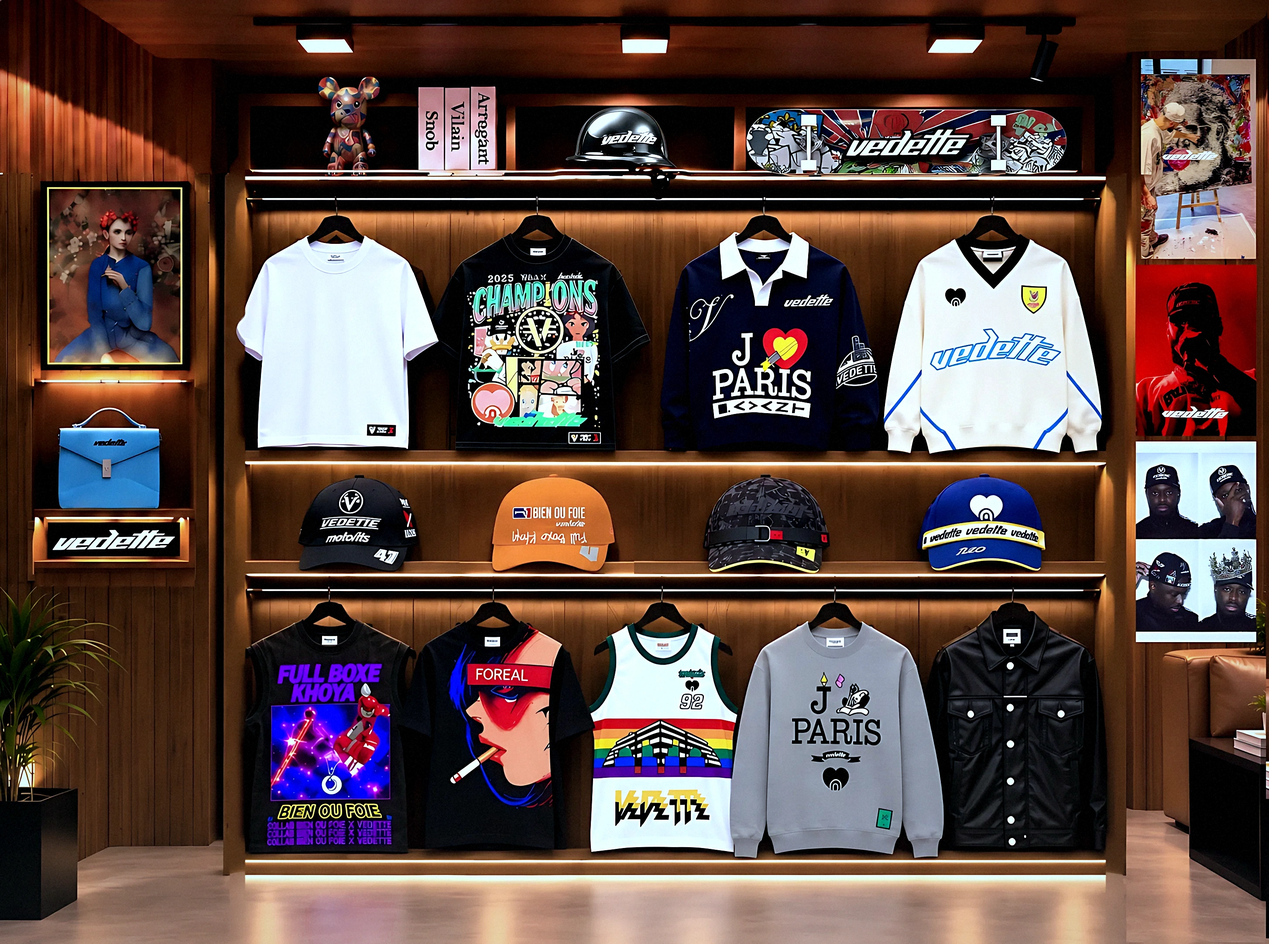
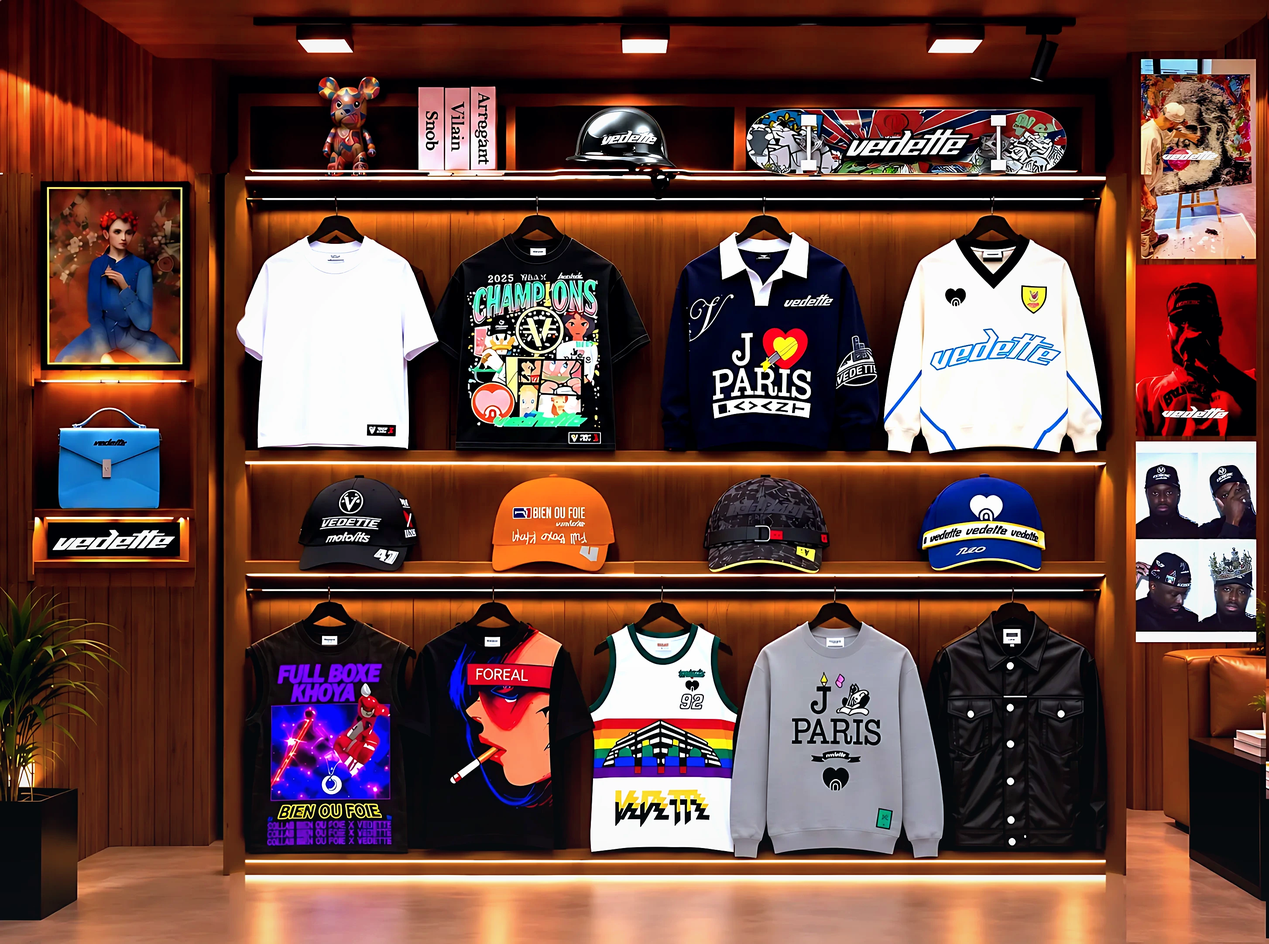
Wall: matching livelier grade; bump cache keys
Claude-Session: https://claude.ai/code/session_01JHKczBwFKYFofkfxCnLE6j

diff --git a/src/components/hero/ScrollVideoHero.tsx b/src/components/hero/ScrollVideoHero.tsx
@@ -346,7 +346,7 @@ export default function ScrollVideoHero() {
 
     const seq = createFrameSequence({
       count: FRAME_COUNT,
-      url: (i) => `${set.dir}${String(i).padStart(3, "0")}.webp?v=20261110`,
+      url: (i) => `${set.dir}${String(i).padStart(3, "0")}.webp?v=20261111`,
       width: set.w,
       height: set.h,
       // A frame that just arrived only matters if it's closer to what's on
@@ -371,7 +371,7 @@ export default function ScrollVideoHero() {
       sharpFor = i;
       const next = new Image();
       next.decoding = "async";
-      next.src = `${sharpSet.dir}${String(i).padStart(3, "0")}.webp?v=20261110`;
+      next.src = `${sharpSet.dir}${String(i).padStart(3, "0")}.webp?v=20261111`;
       next
         .decode()
         .then(() => {

diff --git a/src/data/collection.ts b/src/data/collection.ts
@@ -125,7 +125,7 @@ export const wallPosters: WallPoster[] = [
   { id: "artiste-rouge", name: "Sur scène — Vedette", src: "/collection/posters/artiste-rouge.webp?v=2", w: 1132, h: 1583, spot: { x: 94.39, y: 37.11, w: 9.28, h: 18.21 } },
   { id: "cabine-photo", name: "Photomaton — casquettes Vedette", src: "/collection/posters/cabine-photo.webp", w: 1163, h: 1479, spot: { x: 94.22, y: 57.39, w: 9.63, h: 21.44 } },
 ];
-export const WALL_IMAGE = "/collection/wall.webp?v=9";
+export const WALL_IMAGE = "/collection/wall.webp?v=10";
 
 const P = "/collection/products/";
 const C = "/cabine/looks/";
